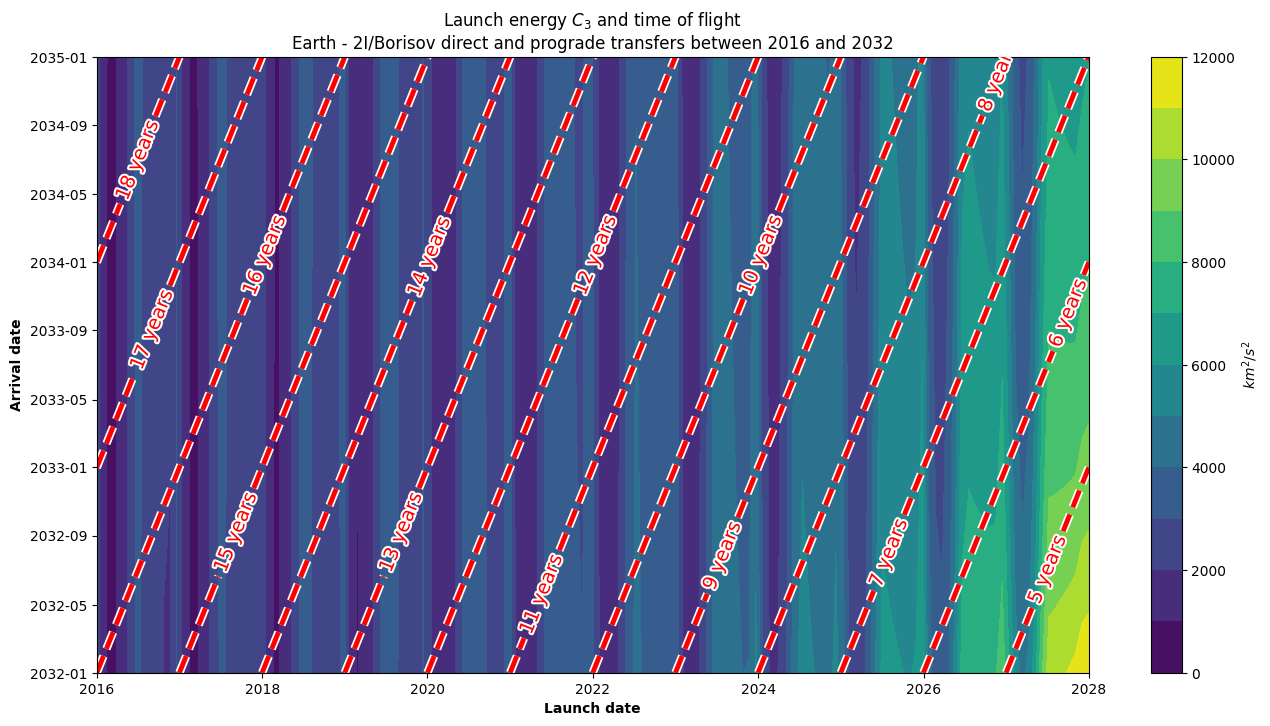
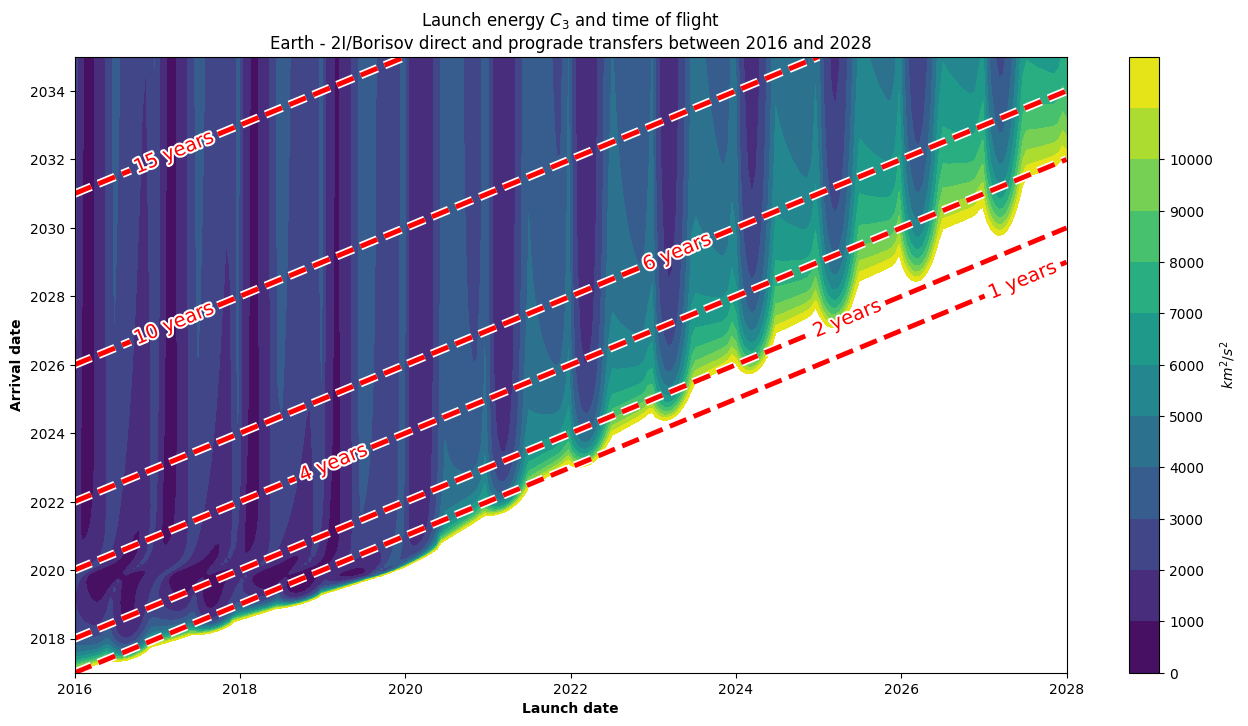
feat: reproducible porkchop for borisov

diff --git a/bin/borisov_porkchop.py b/bin/borisov_porkchop.py
@@ -10,9 +10,9 @@ from poliastro.util import time_range
 
 def solve_porkchop(prograde=True):
     # Declare the launch and arrival spans
-    N = 150
+    N = 250
     launch_span = time_range("2016-01-01", end="2028-01-01", num_values=N, scale="tdb")
-    arrival_span = time_range("2032-01-01", end="2035-01-01", num_values=N, scale="tdb")
+    arrival_span = time_range("2017-01-01", end="2035-01-01", num_values=N, scale="tdb")
 
     # Load the ephemerides for the Earth and 'Oumuamua
     earth = Ephem.from_csv("bin/ephem/earth.csv", plane=Planes.EARTH_ECLIPTIC)
@@ -23,44 +23,40 @@ def solve_porkchop(prograde=True):
         earth, borisov, launch_span, arrival_span, prograde=prograde
     )
 
-def solve_launch_energy():
-    for prograde in [True, False]:
-        porkchop = solve_porkchop(prograde)
-        inclination = "prograde" if prograde else "retrograde"
-        _, ax = plt.subplots(1, 1, figsize=(16, 8))
-        porkchop.plot_launch_energy(
-            levels=np.linspace(0, 12e3, 13) * u.km ** 2 / u.s ** 2,
-            plot_contour_lines=False,
-            ax=ax,
-        )
-        porkchop.plot_time_of_flight(
-            levels=np.linspace(0, 20, 21) * u.year,
-            ax=ax
-        )
-        porkchop.ax.set_title(f"Launch energy $C_3$ and time of flight\nEarth - 2I/Borisov direct and {inclination} transfers between 2016 and 2032")
-        plt.savefig(f"fig/static/borisov/direct-{inclination}-transfer-porkchop.png", bbox_inches="tight")
+def solve_launch_energy(porkchop, inclination):
+    _, ax = plt.subplots(1, 1, figsize=(16, 8))
+    porkchop.plot_launch_energy(
+        levels=np.linspace(0, 12e3, 13) * u.km ** 2 / u.s ** 2,
+        plot_contour_lines=False,
+        ax=ax,
+    )
+    porkchop.c3_colorbar.set_ticks(np.linspace(0, 10e3, 11).astype(int))
+    porkchop.c3_colorbar.set_ticklabels(np.linspace(0, 10e3, 11).astype(int))
+    porkchop.plot_time_of_flight(
+        levels=[1, 2, 4, 6, 10, 15] * u.year,
+        ax=ax,
+        use_years=True,
+    )
+    porkchop.ax.set_title(f"Launch energy $C_3$ and time of flight\nEarth - 2I/Borisov direct and {inclination} transfers between 2016 and 2028")
+    plt.savefig(f"fig/static/borisov/direct-{inclination}-transfer-porkchop.png", bbox_inches="tight")
 
-def solve_launch_velocity():
-    for prograde in [True, False]:
-        porkchop = solve_porkchop(prograde)
-        inclination = "prograde" if prograde else "retrograde"
-        _, ax = plt.subplots(1, 1, figsize=(16, 8))
-        porkchop.plot_launch_energy(
-            levels=np.linspace(0, 12e3, 13) * u.km ** 2 / u.s ** 2,
-            plot_contour_lines=False,
-            ax=ax,
-        )
-        porkchop.plot_arrival_velocity(
-            levels=np.linspace(20, 50, 4) * u.km / u.s,
-            ax=ax
-        )
-        porkchop.plot_arrival_velocity(
-            levels=np.linspace(0, 15, 6) * u.km / u.s,
-            ax=ax
-        )
-        porkchop.ax.set_title(f"Launch energy $C_3$ and arrival velocity\nEarth - 2I/Borisov direct and {inclination} transfers between 2016 and 2032")
-        plt.savefig(f"fig/static/borisov/direct-{inclination}-transfer-porkchop-avl.png", bbox_inches="tight")
+def solve_launch_velocity(porkchop, inclination):
+    _, ax = plt.subplots(1, 1, figsize=(16, 8))
+    porkchop.plot_launch_energy(
+        levels=np.linspace(0, 12e3, 13) * u.km ** 2 / u.s ** 2,
+        plot_contour_lines=False,
+        ax=ax,
+    )
+    porkchop.plot_arrival_velocity(
+        levels=[2, 5, 10, 20, 30, 60] * u.km / u.s,
+        ax=ax
+    )
+    porkchop.ax.set_title(f"Launch energy $C_3$ and arrival velocity\nEarth - 2I/Borisov direct and {inclination} transfers between 2016 and 2028")
+    plt.savefig(f"fig/static/borisov/direct-{inclination}-transfer-porkchop-avl.png", bbox_inches="tight")
 
 if __name__ == "__main__":
-    solve_launch_energy()
-    solve_launch_velocity()
+    for prograde in [True, False]:
+        porkchop = solve_porkchop(prograde)
+        inclination = "prograde" if prograde else "retrograde"
+        solve_launch_energy(porkchop, inclination)
+        solve_launch_velocity(porkchop, inclination)
